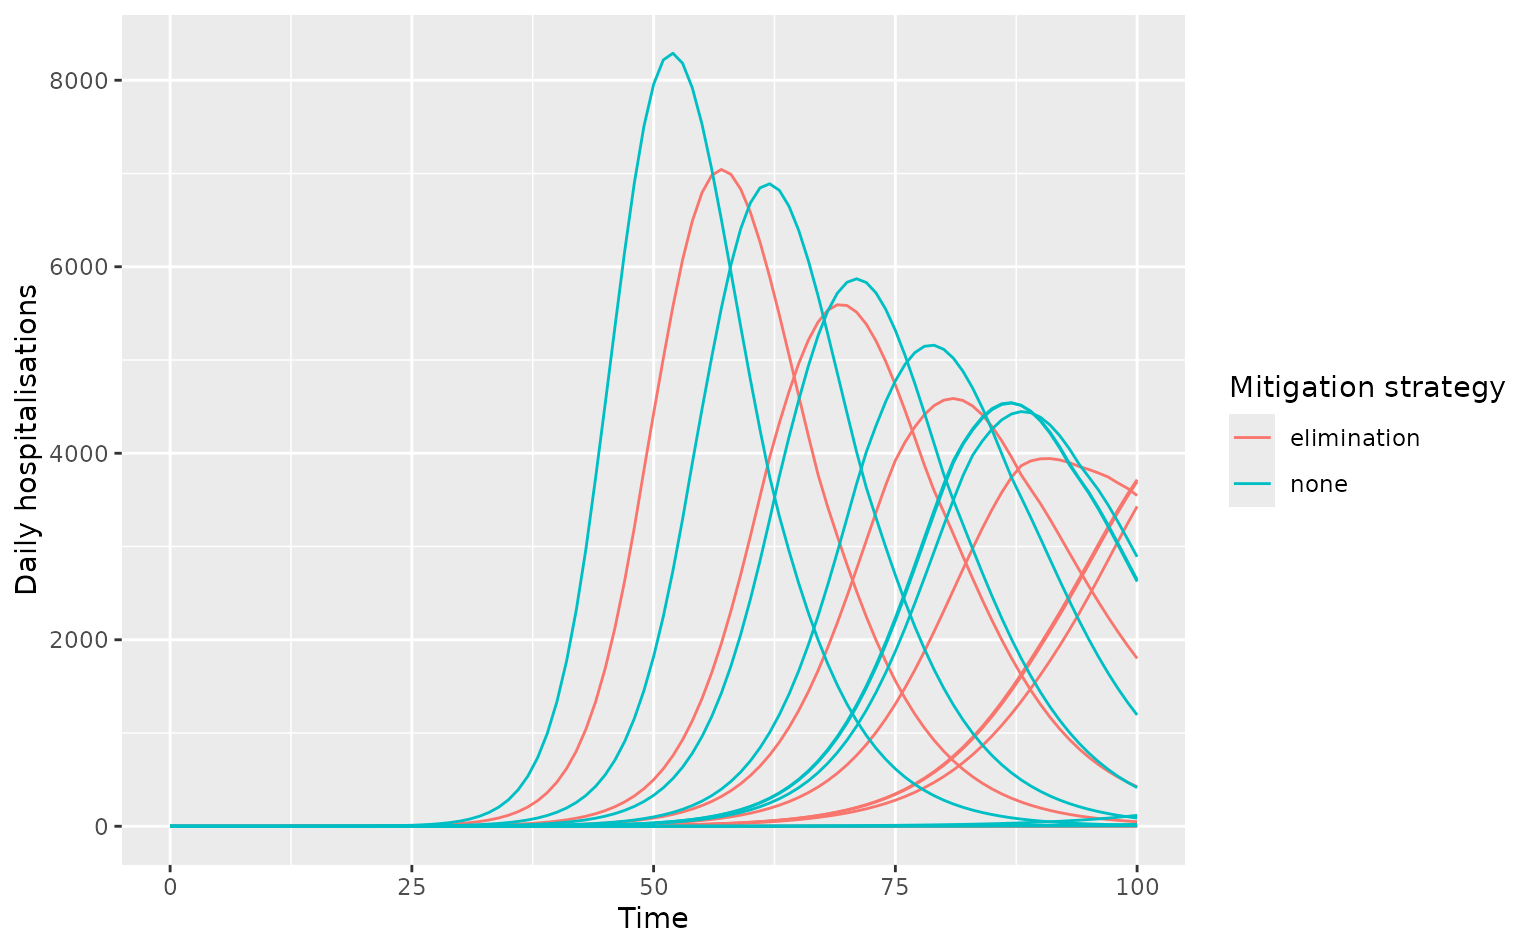
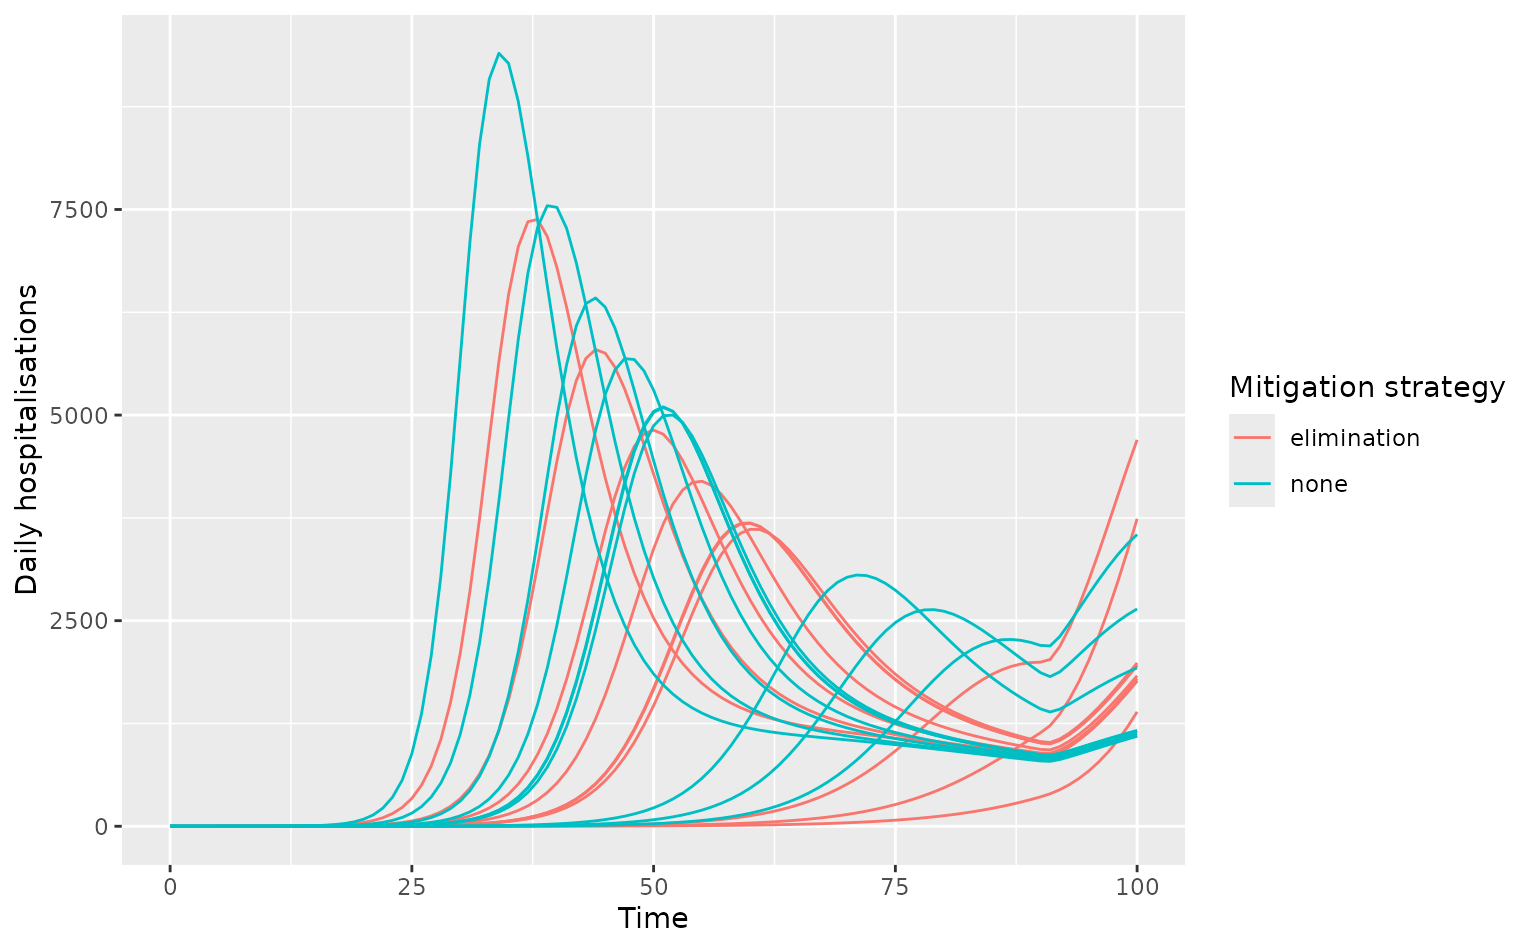
Deploying to gh-pages from @ jameel-institute/daedalus.compare@3604290217d7396074441ad58e54ac2b7145743f 🚀

diff --git a/reference/run_scenarios.html b/reference/run_scenarios.html
@@ -7,7 +7,7 @@
     <a href="https://www.imperial.ac.uk/jameel-institute/" class="external-link"><img src="https://raw.githubusercontent.com/jameel-institute/jameelinst.rpkg.theme/refs/heads/main/inst/pkgdown/assets/logo_imperial_jameel.svg" id="logo" alt="Abdul Latif Jameel Institute for Disease and Emergency Analytics"></a>
     <a class="navbar-brand me-2" href="../index.html">daedalus.compare</a>
 
-    <small class="nav-text text-muted me-auto" data-bs-toggle="tooltip" data-bs-placement="bottom" title="Released version">0.0.1</small>
+    <small class="nav-text text-muted me-auto" data-bs-toggle="tooltip" data-bs-placement="bottom" title="Released version">0.0.2</small>
 
 
     <button class="navbar-toggler" type="button" data-bs-toggle="collapse" data-bs-target="#navbar" aria-controls="navbar" aria-expanded="false" aria-label="Toggle navigation">
@@ -50,9 +50,9 @@
 <span>  <span class="va">country</span>,</span>
 <span>  <span class="va">infection</span>,</span>
 <span>  response_strategy <span class="op">=</span> <span class="st">"none"</span>,</span>
-<span>  response_time_start <span class="op">=</span> <span class="fl">0</span>,</span>
-<span>  response_time_end <span class="op">=</span> <span class="fl">0</span>,</span>
-<span>  duration <span class="op">=</span> <span class="fl">100</span></span>
+<span>  response_time <span class="op">=</span> <span class="fl">30</span>,</span>
+<span>  response_duration <span class="op">=</span> <span class="fl">365</span>,</span>
+<span>  time_end <span class="op">=</span> <span class="fl">100</span></span>
 <span><span class="op">)</span></span></code></pre></div>
     </div>
 
@@ -63,8 +63,9 @@
 <dl><dt id="arg-country">country<a class="anchor" aria-label="anchor" href="#arg-country"></a></dt>
 <dd><p>A country or territory object of class <code>&lt;daedalus_country&gt;</code>,
 <strong>or</strong> a country or territory name from those included in the package;
-see <a href="https://jameel-institute.github.io/daedalus/reference/country_names_codes.html" class="external-link">country_names</a>, <strong>or</strong> a country ISO2 or ISO3 code; see
-<a href="https://jameel-institute.github.io/daedalus/reference/country_names_codes.html" class="external-link">country_codes_iso2c</a> and <a href="https://jameel-institute.github.io/daedalus/reference/country_names_codes.html" class="external-link">country_codes_iso3c</a> .
+see <a href="https://rdrr.io/pkg/daedalus.data/man/country_names_codes.html" class="external-link">daedalus.data::country_names</a>, <strong>or</strong> a country ISO2 or ISO3 code; see
+<a href="https://rdrr.io/pkg/daedalus.data/man/country_names_codes.html" class="external-link">daedalus.data::country_codes_iso2c</a> and
+<a href="https://rdrr.io/pkg/daedalus.data/man/country_names_codes.html" class="external-link">daedalus.data::country_codes_iso3c</a>.
 Country-specific data such as the community and workplace contacts, the
 demography, and the distribution of the workforce into economic sectors is
 automatically accessed from package data for the relevant country name if it
@@ -74,32 +75,35 @@ To override package defaults for country characteristics, pass a
 
 
 <dt id="arg-infection">infection<a class="anchor" aria-label="anchor" href="#arg-infection"></a></dt>
-<dd><p>Similar to <code><a href="https://jameel-institute.github.io/daedalus/reference/daedalus.html" class="external-link">daedalus()</a></code>, may be a character vector from
-among <a href="https://jameel-institute.github.io/daedalus/reference/epidemic_data.html" class="external-link">epidemic_names</a> or a <code>&lt;daedalus_infection&gt;</code> object.
-May also be a list of <code>&lt;daedalus_infection&gt;</code> objects.</p></dd>
+<dd><p>A list of <code>&lt;daedalus_infection&gt;</code> objects.</p></dd>
 
 
 <dt id="arg-response-strategy">response_strategy<a class="anchor" aria-label="anchor" href="#arg-response-strategy"></a></dt>
-<dd><p>Either a string for the name of response strategy
-followed from among "none", "school_closures", "economic_closures", and
-"elimination", or a numeric vector of the same length as the number of
-economic sectors (45) giving the openness coefficient for each sector when
-closures are active.</p></dd>
+<dd><p>A string for the name of response strategy followed;
+defaults to "none". The response strategy determines the country-specific
+response threshold following which the response is activated. See
+<code>response_threshold</code>.</p>
+<p>While the response strategy is active, economic contacts are scaled using the
+package data object <code><a href="https://rdrr.io/pkg/daedalus.data/man/closure_data.html" class="external-link">daedalus.data::closure_data</a></code>.</p></dd>
 
 
-<dt id="arg-response-time-start">response_time_start<a class="anchor" aria-label="anchor" href="#arg-response-time-start"></a></dt>
-<dd><p>A single number for the time at which the
-<code>response_strategy</code> comes into effect.</p></dd>
+<dt id="arg-response-time">response_time<a class="anchor" aria-label="anchor" href="#arg-response-time"></a></dt>
+<dd><p>A single numeric value for the time in days
+at which the selected response is activated. This is ignored if the response
+has already been activated by the hospitalisation threshold being reached.
+Defaults to 30 days.</p></dd>
 
 
-<dt id="arg-response-time-end">response_time_end<a class="anchor" aria-label="anchor" href="#arg-response-time-end"></a></dt>
-<dd><p>A single number of the time at which the response
-comes to an end.</p></dd>
+<dt id="arg-response-duration">response_duration<a class="anchor" aria-label="anchor" href="#arg-response-duration"></a></dt>
+<dd><p>A single integer-ish number that gives the number of
+days after <code>response_time</code> that an NPI should end.</p></dd>
 
 
-<dt id="arg-duration">duration<a class="anchor" aria-label="anchor" href="#arg-duration"></a></dt>
+<dt id="arg-time-end">time_end<a class="anchor" aria-label="anchor" href="#arg-time-end"></a></dt>
 <dd><p>A vector of integer-ish numbers giving the durations over
-which to run scenarios. Each scenario is run for each duration.</p></dd>
+which to run scenarios. Each scenario is run for each <code>time_end</code>. The
+intention is to be able to run response scenarios for different durations,
+to be able to generate a time-series of how different costs accumulate.</p></dd>
 
 </dl></div>
     <div class="section level2">

diff --git a/articles/daedalus-compare.html b/articles/daedalus-compare.html
@@ -22,7 +22,7 @@
     <a href="https://www.imperial.ac.uk/jameel-institute/" class="external-link"><img src="https://raw.githubusercontent.com/jameel-institute/jameelinst.rpkg.theme/refs/heads/main/inst/pkgdown/assets/logo_imperial_jameel.svg" id="logo" alt="Abdul Latif Jameel Institute for Disease and Emergency Analytics"></a>
     <a class="navbar-brand me-2" href="../index.html">daedalus.compare</a>
 
-    <small class="nav-text text-muted me-auto" data-bs-toggle="tooltip" data-bs-placement="bottom" title="Released version">0.0.1</small>
+    <small class="nav-text text-muted me-auto" data-bs-toggle="tooltip" data-bs-placement="bottom" title="Released version">0.0.2</small>
 
 
     <button class="navbar-toggler" type="button" data-bs-toggle="collapse" data-bs-target="#navbar" aria-controls="navbar" aria-expanded="false" aria-label="Toggle navigation">
@@ -75,7 +75,7 @@ in the U.K. with uncertainty in
 <math display="inline" xmlns="http://www.w3.org/1998/Math/MathML"><semantics><msub><mi>R</mi><mn>0</mn></msub><annotation encoding="application/x-tex">R_0</annotation></semantics></math>
 of an H1N1-like infection. <strong>Note that</strong>
 <em>daedalus.compare</em> only supports running
-<code><a href="https://jameel-institute.github.io/daedalus/reference/daedalus_rtm.html" class="external-link">daedalus::daedalus_rtm()</a></code> using
+<code><a href="https://jameel-institute.github.io/daedalus/reference/daedalus_multi_infection.html" class="external-link">daedalus::daedalus_multi_infection()</a></code> using
 <code><a href="../reference/run_scenarios.html">daedalus.compare::run_scenarios()</a></code> at present.</p>
 <div class="sourceCode" id="cb1"><pre class="downlit sourceCode r">
 <code class="sourceCode R"><span><span class="kw"><a href="https://rdrr.io/r/base/library.html" class="external-link">library</a></span><span class="op">(</span><span class="va"><a href="https://github.com/jameel-institute/daedalus.compare" class="external-link">daedalus.compare</a></span><span class="op">)</span></span>
@@ -95,14 +95,14 @@ of an H1N1-like infection. <strong>Note that</strong>
 <span><span class="co"># run multiple scenarios of outputs</span></span>
 <span><span class="va">output</span> <span class="op">&lt;-</span> <span class="fu"><a href="../reference/run_scenarios.html">run_scenarios</a></span><span class="op">(</span></span>
 <span>  <span class="st">"GBR"</span>, <span class="va">infection_list</span>,</span>
-<span>  response <span class="op">=</span> <span class="fu"><a href="https://rdrr.io/r/base/list.html" class="external-link">list</a></span><span class="op">(</span>none <span class="op">=</span> <span class="st">"none"</span>, elimination <span class="op">=</span> <span class="st">"elimination"</span><span class="op">)</span>,</span>
-<span>  response_time_start <span class="op">=</span> <span class="fl">10</span>,</span>
-<span>  response_time_end <span class="op">=</span> <span class="fl">90</span></span>
+<span>  response_strategy <span class="op">=</span> <span class="fu"><a href="https://rdrr.io/r/base/list.html" class="external-link">list</a></span><span class="op">(</span>none <span class="op">=</span> <span class="st">"none"</span>, elimination <span class="op">=</span> <span class="st">"elimination"</span><span class="op">)</span>,</span>
+<span>  response_time <span class="op">=</span> <span class="fl">10</span>,</span>
+<span>  response_duration <span class="op">=</span> <span class="fl">80</span></span>
 <span><span class="op">)</span></span>
 <span></span>
 <span><span class="co"># view output which is a data.table</span></span>
 <span><span class="va">output</span></span>
-<span><span class="co">#&gt;       response duration     output</span></span>
+<span><span class="co">#&gt;       response time_end     output</span></span>
 <span><span class="co">#&gt;         &lt;char&gt;    &lt;num&gt;     &lt;list&gt;</span></span>
 <span><span class="co">#&gt; 1:        none      100 &lt;list[10]&gt;</span></span>
 <span><span class="co">#&gt; 2: elimination      100 &lt;list[10]&gt;</span></span>

diff --git a/news/index.html b/news/index.html
@@ -7,7 +7,7 @@
     <a href="https://www.imperial.ac.uk/jameel-institute/" class="external-link"><img src="https://raw.githubusercontent.com/jameel-institute/jameelinst.rpkg.theme/refs/heads/main/inst/pkgdown/assets/logo_imperial_jameel.svg" id="logo" alt="Abdul Latif Jameel Institute for Disease and Emergency Analytics"></a>
     <a class="navbar-brand me-2" href="../index.html">daedalus.compare</a>
 
-    <small class="nav-text text-muted me-auto" data-bs-toggle="tooltip" data-bs-placement="bottom" title="Released version">0.0.1</small>
+    <small class="nav-text text-muted me-auto" data-bs-toggle="tooltip" data-bs-placement="bottom" title="Released version">0.0.2</small>
 
 
     <button class="navbar-toggler" type="button" data-bs-toggle="collapse" data-bs-target="#navbar" aria-controls="navbar" aria-expanded="false" aria-label="Toggle navigation">
@@ -40,15 +40,21 @@
     </div>
 
     <div class="section level2">
+<h2 class="pkg-version" data-toc-text="0.0.2" id="daedaluscompare-002">daedalus.compare 0.0.2<a class="anchor" aria-label="anchor" href="#daedaluscompare-002"></a></h2>
+<p>Updates for compatibility with <em>daedalus</em> &gt;= v0.2.16 which re-introduces list-infection inputs.</p>
+<ul><li>Input checking in <code><a href="../reference/run_scenarios.html">run_scenarios()</a></code> removed to rely on errors bubbled up from <em>daedalus</em> functions.</li>
+</ul></div>
+    <div class="section level2">
 <h2 class="pkg-version" data-toc-text="0.0.1" id="daedaluscompare-001">daedalus.compare 0.0.1<a class="anchor" aria-label="anchor" href="#daedaluscompare-001"></a></h2>
 <p>This is the first version of <em>daedalus.compare</em> and adds:</p>
-<ol style="list-style-type: decimal"><li><p>A scenario-runner function <code><a href="../reference/run_scenarios.html">run_scenarios()</a></code> that wraps around <code><a href="https://jameel-institute.github.io/daedalus/reference/daedalus_rtm.html" class="external-link">daedalus::daedalus_rtm()</a></code> and allows running multiple scenarios of pandemic mitigation responses with uncertainty in the infection parameters.</p></li>
+<ol style="list-style-type: decimal"><li><p>A scenario-runner function <code><a href="../reference/run_scenarios.html">run_scenarios()</a></code> that wraps around <code>daedalus::daedalus_rtm()</code> and allows running multiple scenarios of pandemic mitigation responses with uncertainty in the infection parameters.</p></li>
 <li><p>Multiple functions downstream of <code><a href="../reference/run_scenarios.html">run_scenarios()</a></code> that help get data from scenarios in formats suitable for plotting or summarisation: <code><a href="../reference/get_epicurve_data.html">get_epicurve_data()</a></code>, <code><a href="../reference/get_summary_data.html">get_summary_data()</a></code>, <code><a href="../reference/get_cost_data.html">get_cost_data()</a></code>, and <code><a href="../reference/get_econ_cost_data.html">get_econ_cost_data()</a></code>.</p></li>
 <li><p>Helper functions and constants: <code><a href="../reference/ci.html">ci()</a></code>, <code><a href="../reference/make_infection_samples.html">make_infection_samples()</a></code>, and <code>NAMES_VECTOR_INF_PARAMS</code>.</p></li>
 <li><p>Basic tests and function documentation.</p></li>
 </ol><ul><li>This project now includes a <a href="https://r-pkgs.org/other-markdown.html#sec-news" class="external-link"><code>NEWS.md</code></a> file to inform users about changes and new features.</li>
 </ul></div>
-  </main></div>
+  </main><aside class="col-md-3"><nav id="toc" aria-label="Table of contents"><h2>On this page</h2>
+    </nav></aside></div>
 
 
     <footer><div class="pkgdown-footer-left">

diff --git a/index.html b/index.html
@@ -24,7 +24,7 @@
     <a href="https://www.imperial.ac.uk/jameel-institute/" class="external-link"><img src="https://raw.githubusercontent.com/jameel-institute/jameelinst.rpkg.theme/refs/heads/main/inst/pkgdown/assets/logo_imperial_jameel.svg" id="logo" alt="Abdul Latif Jameel Institute for Disease and Emergency Analytics"></a>
     <a class="navbar-brand me-2" href="index.html">daedalus.compare</a>
 
-    <small class="nav-text text-muted me-auto" data-bs-toggle="tooltip" data-bs-placement="bottom" title="Released version">0.0.1</small>
+    <small class="nav-text text-muted me-auto" data-bs-toggle="tooltip" data-bs-placement="bottom" title="Released version">0.0.2</small>
 
 
     <button class="navbar-toggler" type="button" data-bs-toggle="collapse" data-bs-target="#navbar" aria-controls="navbar" aria-expanded="false" aria-label="Toggle navigation">
@@ -84,7 +84,7 @@
 <div class="section level2">
 <h2 id="quick-start">Quick start<a class="anchor" aria-label="anchor" href="#quick-start"></a>
 </h2>
-<p>This example shows how to model multiple pandemic response scenarios in the U.K. with uncertainty in <math display="inline" xmlns="http://www.w3.org/1998/Math/MathML"><semantics><msub><mi>R</mi><mn>0</mn></msub><annotation encoding="application/x-tex">R_0</annotation></semantics></math> of an H1N1-like infection. <strong>Note that</strong> <em>daedalus.compare</em> only supports running <code><a href="https://jameel-institute.github.io/daedalus/reference/daedalus_rtm.html" class="external-link">daedalus::daedalus_rtm()</a></code> using <code><a href="reference/run_scenarios.html">daedalus.compare::run_scenarios()</a></code> at present.</p>
+<p>This example shows how to model multiple pandemic response scenarios in the U.K. with uncertainty in <math display="inline" xmlns="http://www.w3.org/1998/Math/MathML"><semantics><msub><mi>R</mi><mn>0</mn></msub><annotation encoding="application/x-tex">R_0</annotation></semantics></math> of an H1N1-like infection. <strong>Note that</strong> <em>daedalus.compare</em> only supports running <code>daedalus::daedalus_rtm()</code> using <code><a href="reference/run_scenarios.html">daedalus.compare::run_scenarios()</a></code> at present.</p>
 <div class="sourceCode" id="cb2"><pre class="downlit sourceCode r">
 <code class="sourceCode R"><span><span class="kw"><a href="https://rdrr.io/r/base/library.html" class="external-link">library</a></span><span class="op">(</span><span class="va"><a href="https://github.com/jameel-institute/daedalus.compare" class="external-link">daedalus.compare</a></span><span class="op">)</span></span>
 <span></span>
@@ -105,13 +105,13 @@
 <span><span class="va">output</span> <span class="op">&lt;-</span> <span class="fu"><a href="reference/run_scenarios.html">run_scenarios</a></span><span class="op">(</span></span>
 <span>  <span class="st">"GBR"</span>, <span class="va">infection_list</span>,</span>
 <span>  response <span class="op">=</span> <span class="fu"><a href="https://rdrr.io/r/base/list.html" class="external-link">list</a></span><span class="op">(</span>none <span class="op">=</span> <span class="st">"none"</span>, elimination <span class="op">=</span> <span class="st">"elimination"</span><span class="op">)</span>,</span>
-<span>  response_time_start <span class="op">=</span> <span class="fl">10</span>,</span>
-<span>  response_time_end <span class="op">=</span> <span class="fl">90</span></span>
+<span>  response_time <span class="op">=</span> <span class="fl">10</span>,</span>
+<span>  response_duration <span class="op">=</span> <span class="fl">90</span></span>
 <span><span class="op">)</span></span>
 <span></span>
 <span><span class="co"># view output which is a data.table</span></span>
 <span><span class="va">output</span></span>
-<span><span class="co">#&gt;       response duration     output</span></span>
+<span><span class="co">#&gt;       response time_end     output</span></span>
 <span><span class="co">#&gt;         &lt;char&gt;    &lt;num&gt;     &lt;list&gt;</span></span>
 <span><span class="co">#&gt; 1:        none      100 &lt;list[10]&gt;</span></span>
 <span><span class="co">#&gt; 2: elimination      100 &lt;list[10]&gt;</span></span>

diff --git a/reference/make_infection_samples.html b/reference/make_infection_samples.html
@@ -7,7 +7,7 @@
     <a href="https://www.imperial.ac.uk/jameel-institute/" class="external-link"><img src="https://raw.githubusercontent.com/jameel-institute/jameelinst.rpkg.theme/refs/heads/main/inst/pkgdown/assets/logo_imperial_jameel.svg" id="logo" alt="Abdul Latif Jameel Institute for Disease and Emergency Analytics"></a>
     <a class="navbar-brand me-2" href="../index.html">daedalus.compare</a>
 
-    <small class="nav-text text-muted me-auto" data-bs-toggle="tooltip" data-bs-placement="bottom" title="Released version">0.0.1</small>
+    <small class="nav-text text-muted me-auto" data-bs-toggle="tooltip" data-bs-placement="bottom" title="Released version">0.0.2</small>
 
 
     <button class="navbar-toggler" type="button" data-bs-toggle="collapse" data-bs-target="#navbar" aria-controls="navbar" aria-expanded="false" aria-label="Toggle navigation">
@@ -59,14 +59,15 @@
 
 
 <dl><dt id="arg-name">name<a class="anchor" aria-label="anchor" href="#arg-name"></a></dt>
-<dd><p>An infection name from among <code><a href="https://jameel-institute.github.io/daedalus/reference/epidemic_data.html" class="external-link">daedalus::epidemic_names</a></code>.</p></dd>
+<dd><p>An infection name from among <code><a href="https://rdrr.io/pkg/daedalus.data/man/epidemic_data.html" class="external-link">daedalus.data::epidemic_names</a></code>.</p></dd>
 
 
 <dt id="arg-param-distributions">param_distributions<a class="anchor" aria-label="anchor" href="#arg-param-distributions"></a></dt>
 <dd><p>A named list of <code>&lt;distribution&gt;</code> class
 objects provided by <span class="pkg">distributional</span>, with names corresponding to
-<code><a href="https://jameel-institute.github.io/daedalus/reference/epidemic_data.html" class="external-link">daedalus::infection_parameter_names</a></code>. These are used to generate <code>samples</code>
-draws from each distribution for the corresponding infection parameters.
+<code><a href="https://rdrr.io/pkg/daedalus.data/man/epidemic_data.html" class="external-link">daedalus.data::infection_parameter_names</a></code>.
+These are used to generate <code>samples</code> draws from each distribution for the
+corresponding infection parameters.
 Arguments which vary by age are supported, with the drawn and scaled value
 treated as the median of the profile vector.
 See <strong>Examples</strong>.</p></dd>

diff --git a/authors.html b/authors.html
@@ -7,7 +7,7 @@
     <a href="https://www.imperial.ac.uk/jameel-institute/" class="external-link"><img src="https://raw.githubusercontent.com/jameel-institute/jameelinst.rpkg.theme/refs/heads/main/inst/pkgdown/assets/logo_imperial_jameel.svg" id="logo" alt="Abdul Latif Jameel Institute for Disease and Emergency Analytics"></a>
     <a class="navbar-brand me-2" href="index.html">daedalus.compare</a>
 
-    <small class="nav-text text-muted me-auto" data-bs-toggle="tooltip" data-bs-placement="bottom" title="Released version">0.0.1</small>
+    <small class="nav-text text-muted me-auto" data-bs-toggle="tooltip" data-bs-placement="bottom" title="Released version">0.0.2</small>
 
 
     <button class="navbar-toggler" type="button" data-bs-toggle="collapse" data-bs-target="#navbar" aria-controls="navbar" aria-expanded="false" aria-label="Toggle navigation">
@@ -61,13 +61,13 @@
 
       <p>Gupte P (2025).
 <em>daedalus.compare: Run Multiple Scenarios of the Daedalus Model</em>.
-R package version 0.0.1, <a href="https://github.com/jameel-institute/daedalus.compare" class="external-link">https://github.com/jameel-institute/daedalus.compare</a>.
+R package version 0.0.2, <a href="https://github.com/jameel-institute/daedalus.compare" class="external-link">https://github.com/jameel-institute/daedalus.compare</a>.
 </p>
       <pre>@Manual{,
   title = {daedalus.compare: Run Multiple Scenarios of the Daedalus Model},
   author = {Pratik Gupte},
   year = {2025},
-  note = {R package version 0.0.1},
+  note = {R package version 0.0.2},
   url = {https://github.com/jameel-institute/daedalus.compare},
 }</pre>
     </div>

diff --git a/404.html b/404.html
@@ -22,7 +22,7 @@
     <a href="https://www.imperial.ac.uk/jameel-institute/" class="external-link"><img src="https://raw.githubusercontent.com/jameel-institute/jameelinst.rpkg.theme/refs/heads/main/inst/pkgdown/assets/logo_imperial_jameel.svg" id="logo" alt="Abdul Latif Jameel Institute for Disease and Emergency Analytics"></a>
     <a class="navbar-brand me-2" href="https://jameel-institute.github.io/daedalus.compare/index.html">daedalus.compare</a>
 
-    <small class="nav-text text-muted me-auto" data-bs-toggle="tooltip" data-bs-placement="bottom" title="Released version">0.0.1</small>
+    <small class="nav-text text-muted me-auto" data-bs-toggle="tooltip" data-bs-placement="bottom" title="Released version">0.0.2</small>
 
 
     <button class="navbar-toggler" type="button" data-bs-toggle="collapse" data-bs-target="#navbar" aria-controls="navbar" aria-expanded="false" aria-label="Toggle navigation">

diff --git a/LICENSE-text.html b/LICENSE-text.html
@@ -7,7 +7,7 @@
     <a href="https://www.imperial.ac.uk/jameel-institute/" class="external-link"><img src="https://raw.githubusercontent.com/jameel-institute/jameelinst.rpkg.theme/refs/heads/main/inst/pkgdown/assets/logo_imperial_jameel.svg" id="logo" alt="Abdul Latif Jameel Institute for Disease and Emergency Analytics"></a>
     <a class="navbar-brand me-2" href="index.html">daedalus.compare</a>
 
-    <small class="nav-text text-muted me-auto" data-bs-toggle="tooltip" data-bs-placement="bottom" title="Released version">0.0.1</small>
+    <small class="nav-text text-muted me-auto" data-bs-toggle="tooltip" data-bs-placement="bottom" title="Released version">0.0.2</small>
 
 
     <button class="navbar-toggler" type="button" data-bs-toggle="collapse" data-bs-target="#navbar" aria-controls="navbar" aria-expanded="false" aria-label="Toggle navigation">

diff --git a/LICENSE.html b/LICENSE.html
@@ -7,7 +7,7 @@
     <a href="https://www.imperial.ac.uk/jameel-institute/" class="external-link"><img src="https://raw.githubusercontent.com/jameel-institute/jameelinst.rpkg.theme/refs/heads/main/inst/pkgdown/assets/logo_imperial_jameel.svg" id="logo" alt="Abdul Latif Jameel Institute for Disease and Emergency Analytics"></a>
     <a class="navbar-brand me-2" href="index.html">daedalus.compare</a>
 
-    <small class="nav-text text-muted me-auto" data-bs-toggle="tooltip" data-bs-placement="bottom" title="Released version">0.0.1</small>
+    <small class="nav-text text-muted me-auto" data-bs-toggle="tooltip" data-bs-placement="bottom" title="Released version">0.0.2</small>
 
 
     <button class="navbar-toggler" type="button" data-bs-toggle="collapse" data-bs-target="#navbar" aria-controls="navbar" aria-expanded="false" aria-label="Toggle navigation">

diff --git a/articles/index.html b/articles/index.html
@@ -7,7 +7,7 @@
     <a href="https://www.imperial.ac.uk/jameel-institute/" class="external-link"><img src="https://raw.githubusercontent.com/jameel-institute/jameelinst.rpkg.theme/refs/heads/main/inst/pkgdown/assets/logo_imperial_jameel.svg" id="logo" alt="Abdul Latif Jameel Institute for Disease and Emergency Analytics"></a>
     <a class="navbar-brand me-2" href="../index.html">daedalus.compare</a>
 
-    <small class="nav-text text-muted me-auto" data-bs-toggle="tooltip" data-bs-placement="bottom" title="Released version">0.0.1</small>
+    <small class="nav-text text-muted me-auto" data-bs-toggle="tooltip" data-bs-placement="bottom" title="Released version">0.0.2</small>
 
 
     <button class="navbar-toggler" type="button" data-bs-toggle="collapse" data-bs-target="#navbar" aria-controls="navbar" aria-expanded="false" aria-label="Toggle navigation">

diff --git a/reference/NAMES_VECTOR_INF_PARAMS.html b/reference/NAMES_VECTOR_INF_PARAMS.html
@@ -7,7 +7,7 @@
     <a href="https://www.imperial.ac.uk/jameel-institute/" class="external-link"><img src="https://raw.githubusercontent.com/jameel-institute/jameelinst.rpkg.theme/refs/heads/main/inst/pkgdown/assets/logo_imperial_jameel.svg" id="logo" alt="Abdul Latif Jameel Institute for Disease and Emergency Analytics"></a>
     <a class="navbar-brand me-2" href="../index.html">daedalus.compare</a>
 
-    <small class="nav-text text-muted me-auto" data-bs-toggle="tooltip" data-bs-placement="bottom" title="Released version">0.0.1</small>
+    <small class="nav-text text-muted me-auto" data-bs-toggle="tooltip" data-bs-placement="bottom" title="Released version">0.0.2</small>
 
 
     <button class="navbar-toggler" type="button" data-bs-toggle="collapse" data-bs-target="#navbar" aria-controls="navbar" aria-expanded="false" aria-label="Toggle navigation">

diff --git a/reference/ci.html b/reference/ci.html
@@ -7,7 +7,7 @@
     <a href="https://www.imperial.ac.uk/jameel-institute/" class="external-link"><img src="https://raw.githubusercontent.com/jameel-institute/jameelinst.rpkg.theme/refs/heads/main/inst/pkgdown/assets/logo_imperial_jameel.svg" id="logo" alt="Abdul Latif Jameel Institute for Disease and Emergency Analytics"></a>
     <a class="navbar-brand me-2" href="../index.html">daedalus.compare</a>
 
-    <small class="nav-text text-muted me-auto" data-bs-toggle="tooltip" data-bs-placement="bottom" title="Released version">0.0.1</small>
+    <small class="nav-text text-muted me-auto" data-bs-toggle="tooltip" data-bs-placement="bottom" title="Released version">0.0.2</small>
 
 
     <button class="navbar-toggler" type="button" data-bs-toggle="collapse" data-bs-target="#navbar" aria-controls="navbar" aria-expanded="false" aria-label="Toggle navigation">